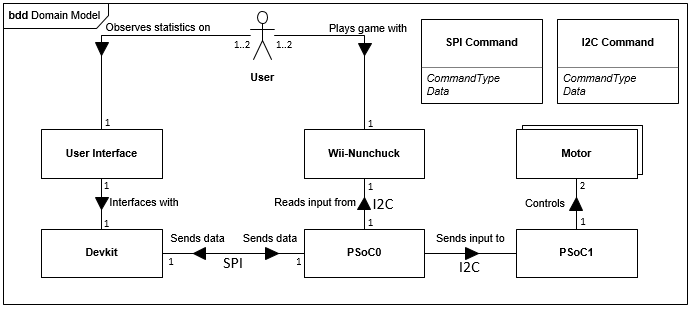
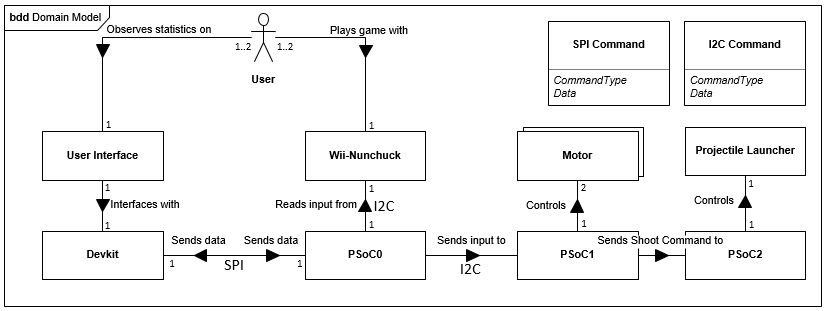
Added the new diagrams to the documentation

diff --git a/Dokumentation/Afsnit/Systemarkitektur/SystemArkitektur.tex b/Dokumentation/Afsnit/Systemarkitektur/SystemArkitektur.tex
@@ -114,7 +114,11 @@ På tabel \ref{tabel:softwareAllocationDescription} er hvert allokeret software 
 		User Interface Software   & \begin{tabular}[c]{@{}l@{}}Dette allokerede software er brugergrænsefladen\\ som brugeren interagerer med på DevKit8000 touch-skærmen.\end{tabular}                                                  \\
 		\rowcolor[HTML]{CBCEFB} 
 		Nunchuck Polling Software & \begin{tabular}[c]{@{}l@{}}Dette allokerede software har til ansvar at polle\\ Nunchuck tilstanden og videresende det til\\ PSoC1.\end{tabular}                                                      \\
-		Motor Control Software    & \cellcolor[HTML]{FFFFFF}\begin{tabular}[c]{@{}l@{}}Dette allokerede software har til ansvar at\\ bruge den pollede Nunchuck data fra PSoC0\\ til motorstyring samt affyringsmekanismen.\end{tabular} \\ \hline
+		Motor Control Software    & \cellcolor[HTML]{FFFFFF}\begin{tabular}[c]{@{}l@{}}Dette allokerede software har til ansvar at\\ bruge den pollede Nunchuck data fra PSoC0\\ til motorstyring samt affyringsmekanismen.\end{tabular} 
+		\\ 
+		\rowcolor[HTML]{CBCEFB} 
+		Projectile Launcher Software & \begin{tabular}[c]{@{}l@{}}Dette allokerede software har til ansvar at aktivere\\ affyringsmekanismen når et \\ knaptryk detekteres på Nunchuck.\end{tabular} \\
+		\hline
 	\end{tabular}
 	\caption{Beskrivelse af den allokerede software}
 	\label{tabel:softwareAllocationDescription}
@@ -129,6 +133,75 @@ Følgende afsnit præsenterer applikationsmodeller relevante til Use Case 1 - Sp
 	\includegraphics[width=\textwidth]{Systemarkitektur/images/WiiNunchuckSequenceDiagram.png}
 	\caption{Overordnet sekvensdiagram for Wii-Nunchuck informations flow}
 	\label{fig:WiiNunchuckSequenceDiagram}
+\end{figure}
+
+\subsection{Applikationsmodel for Nunchuck Polling Software}
+
+\begin{figure}[H]
+	\centering
+	\includegraphics[scale=0.8]{Systemarkitektur/images/klasseIdentificationUC1PSoC0}
+	\caption{Klasseidentifikation for PSoC0}
+	\label{fig:klasseidentifikationUC1PSoC0}
+\end{figure}
+
+\begin{figure}[H]
+	\centering
+	\includegraphics[scale=0.8]{Systemarkitektur/images/UC1PSoC0SequenceDiagram}
+	\caption{Sekvensdiagram for PSoC0}
+	\label{fig:sekvensUC1PSoC0}
+\end{figure}
+
+\begin{figure}[H]
+	\centering
+	\includegraphics[scale=0.8]{Systemarkitektur/images/klasseUC1PSoC0}
+	\caption{Klassediagram for PSoC0}
+	\label{fig:klasseUC1PSoC0}
+\end{figure}
+
+\subsection{Applikationsmodel for Motor Control Software}
+
+\begin{figure}[H]
+	\centering
+	\includegraphics[scale=0.8]{Systemarkitektur/images/klasseIdentificationUC1PSoC1}
+	\caption{Klasseidentifikation for PSoC1}
+	\label{fig:klasseidentifikationUC1PSoC1}
+\end{figure}
+
+\begin{figure}[H]
+	\centering
+	\includegraphics[scale=0.8]{Systemarkitektur/images/UC1PSoC1SequenceDiagram}
+	\caption{Sekvensdiagram for PSoC1}
+	\label{fig:sekvensUC1PSoC1}
+\end{figure}
+
+\begin{figure}[H]
+	\centering
+	\includegraphics[scale=0.8]{Systemarkitektur/images/klasseUC1PSoC1}
+	\caption{Klassediagram for PSoC1}
+	\label{fig:klasseUC1PSoC1}
+\end{figure}
+
+\subsection{Applikationsmodel for Projectile Launcher Software}
+
+\begin{figure}[H]
+	\centering
+	\includegraphics[scale=0.8]{Systemarkitektur/images/klasseIdentificationUC1PSoC2}
+	\caption{Klasseidentifikation for PSoC2}
+	\label{fig:klasseidentifikationUC1PSoC2}
+\end{figure}
+
+\begin{figure}[H]
+	\centering
+	\includegraphics[scale=0.8]{Systemarkitektur/images/UC1PSoC2SequenceDiagram}
+	\caption{Sekvensdiagram for PSoC2}
+	\label{fig:sekvensUC1PSoC2}
+\end{figure}
+
+\begin{figure}[H]
+	\centering
+	\includegraphics[scale=0.8]{Systemarkitektur/images/klasseUC1PSoC2}
+	\caption{Klassediagram for PSoC2}
+	\label{fig:klasseUC1PSoC2}
 \end{figure}
 
 \newpage
@@ -250,6 +323,32 @@ På figur \ref{fig:sekvensPSoC1I2CTest} ses, at boundaryklassen, PSoC0, anmoder 
 \end{figure}
 
 Fra sekvensdiagrammet på figur \ref{fig:sekvensPSoC1I2CTest} udledes et klassediagram som ses foroven i figur \ref{fig:klassePSoC1}.
+
+\section{Samlede Klassediagrammer}
+
+\subsection{PSoC0}
+\begin{figure}[H]
+	\centering
+	\includegraphics[width=\textwidth]{Systemarkitektur/images/classOverviewPSoC0}
+	\caption{Klassediagram for PSoC0}
+	\label{fig:OverallKlassePSoC0}
+\end{figure}
+
+\subsection{PSoC1}
+\begin{figure}[H]
+	\centering
+	\includegraphics[width=\textwidth]{Systemarkitektur/images/classOverviewPSoC1}
+	\caption{Klassediagram for PSoC01}
+	\label{fig:OverallKlassePSoC1}
+\end{figure}
+
+\subsection{PSoC2}
+\begin{figure}[H]
+	\centering
+	\includegraphics[width=\textwidth]{Systemarkitektur/images/classOverviewPSoC2}
+	\caption{Klassediagram for PSoC2}
+	\label{fig:OverallKlassePSoC2}
+\end{figure}
 
 \section{Kommunikationsprotokoller}
 \label{afsnit:kommunikationsprotokoller}
